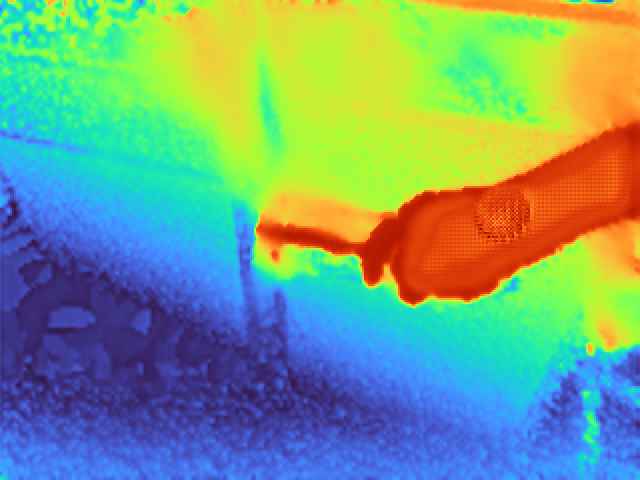
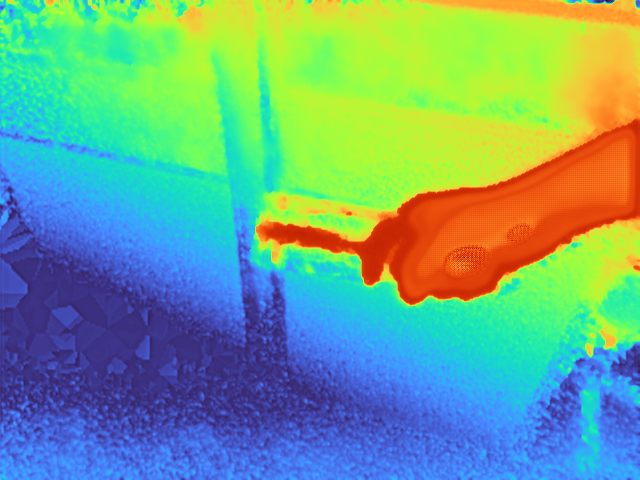
update

diff --git a/main.py b/main.py
@@ -11,7 +11,7 @@ def main():
     raw_depth_mm = np.load('test_img/M1_01_raw_depth.npy')
     print('raw_depth_mm : ' + array_info(raw_depth_mm))
     # Grayscale image
-    grayscale_img = cv2.imread('test_img/M1_01_intensity_image.png', cv2.IMREAD_GRAYSCALE).astype(np.float32)
+    grayscale_img = cv2.imread('test_img/M1_01_intensity_darken05.png', cv2.IMREAD_GRAYSCALE).astype(np.float32)
     print('grayscale_img : ' + array_info(grayscale_img))
 
     # Mask
@@ -25,9 +25,13 @@ def main():
     # cv2.imshow('mask_raw_depth_mm_heatmap', mask_raw_depth_mm_heatmap)
     # cv2.waitKey(0)
 
-    # Convert depth unit mm to m
+    # Convert depth unit mm to m (mask_raw_depth_mm)
     mask_raw_depth_m = mask_raw_depth_mm / 1000
     print('mask_raw_depth_m : ' + array_info(mask_raw_depth_m))
+
+    # Convert depth unit mm to m (raw_depth_mm)
+    raw_depth_m = raw_depth_mm / 1000
+    print('raw_depth_m : ' + array_info(raw_depth_m))
 
     # Create a fake RGB image by grayscale image
     fake_rgb = np.stack([grayscale_img, grayscale_img, grayscale_img], axis=2)  # (H, W, 3)
@@ -43,26 +47,16 @@ def main():
     # # Call inferencer for refined depth
     depth_refine, depth_ori = inferencer.inference(
         rgb=norm_fake_rgb,
-        depth=mask_raw_depth_m,
+        depth=raw_depth_m,
         target_size=(640, 480),
-        depth_coefficient=10.0,
-        inpainting=True
+        depth_coefficient=5.0,
+        inpainting=True,
     )
     print('depth_refine : ' + array_info(depth_refine))
     depth_refine_heatmap = rawdepth_to_heatmap(depth_refine)
     print('depth_refine_heatmap : ' + array_info(depth_refine_heatmap))
-    # cv2.imwrite('result_img/M1_01_SegHand_depth_refine_heatmap.png', depth_refine_heatmap)
+    cv2.imwrite('result_img/M1_01d05_depth_refine_heatmap.png', depth_refine_heatmap)
     cv2.imshow('depth_refine_heatmap', depth_refine_heatmap)
     cv2.waitKey(0)
-    # raw_depth_m = (raw_depth_m * 1000).astype(np.uint16)
-    # print(raw_depth_m.shape, raw_depth_m.max(), raw_depth_m.min())
-    # raw_depth_m_heatmap = tools.rawdepth_to_heatmap(raw_depth_m)
-    # depth_refine = (depth_refine * 1000).astype(np.uint16)
-    # print(depth_refine.shape, depth_refine.max(), depth_refine.min())
-    # depth_refine_heatmap = tools.rawdepth_to_heatmap(depth_refine)
-    # cv2.imwrite('result_img/M11_1_raw_depth_heatmap.png', raw_depth_m_heatmap)
-    # cv2.imwrite('result_img/M1_11_depth_refine.png', depth_refine)
-    # cv2.imwrite('result_img/M1_11_depth_refine_heatmap.png', depth_refine_heatmap)
-
 if __name__ == "__main__":
     main()
